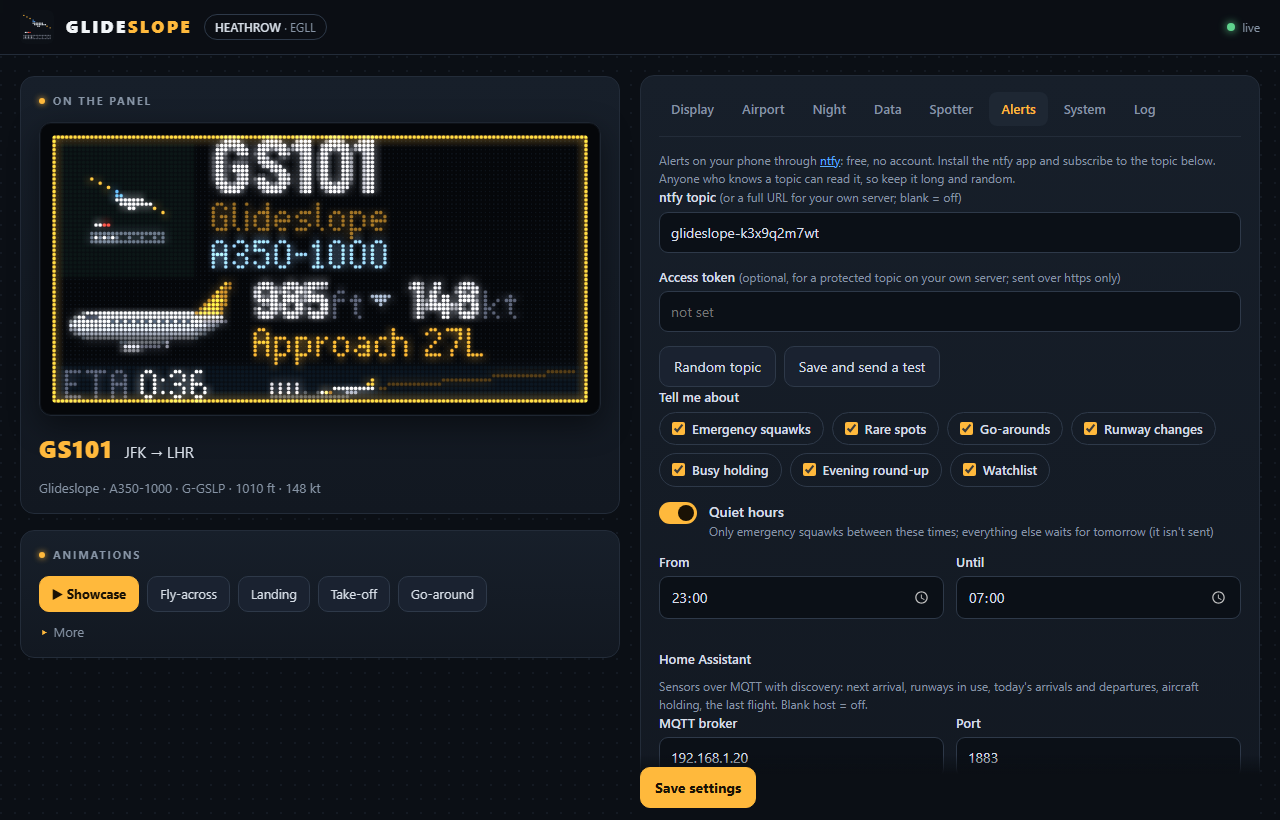
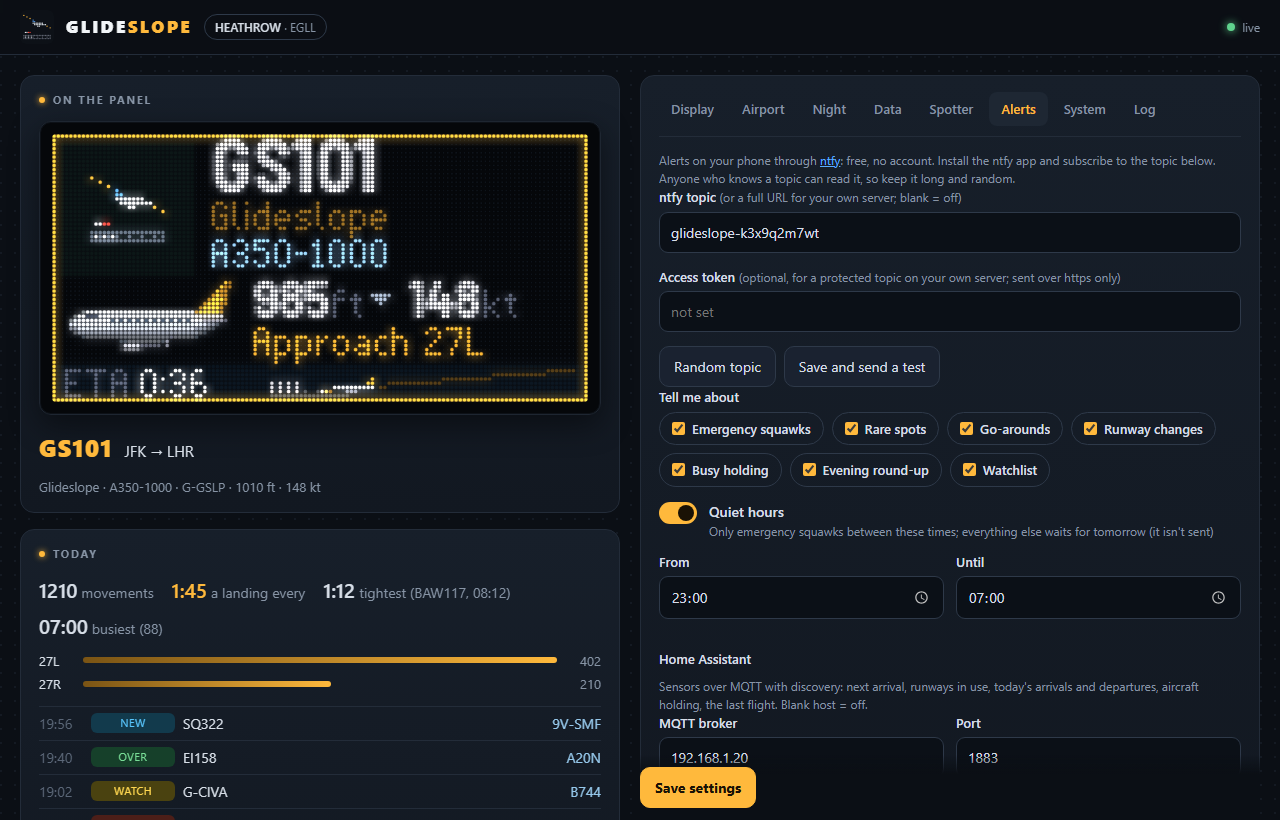
7.1.0: docs, screenshots, changelog

diff --git a/tools/webui_preview.py b/tools/webui_preview.py
@@ -204,7 +204,7 @@ def main():
     today = ROOT / 'docs' / 'webui-today.png'
     shoot(url, str(today), 1280, 1240, 1)
     from PIL import Image
-    Image.open(today).crop((0, 600, 480, 1240)).save(today)
+    Image.open(today).crop((16, 526, 624, 982)).save(today)
     phone = ROOT / 'docs' / 'webui-phone.png'
     shoot(url + 'phone', str(phone), 600, 1100, 2)
     from PIL import Image

diff --git a/README.md b/README.md
@@ -57,6 +57,14 @@ repository (see [Airline logos](#airline-logos)).
 | --- | --- |
 | ![The route globe: New York to London, the night side shaded](docs/globe.png) | ![An A380 overhead at 37,000 ft with contrails](docs/overhead.png) |
 
+| Runway rhythm | Spotted today |
+| --- | --- |
+| ![Runway rhythm: a landing every 1:45, today's average and tightest gap, each runway's share](docs/rhythm.png) | ![Today's spotter log: rare spots, first visits, overhead and watchlist passes, go-arounds](docs/spotted.png) |
+
+| Overnight: the night scene | The day in one card |
+| --- | --- |
+| ![The night scene: the skyline under the stars, the time and the next sunrise](docs/night.png) | ![The bedtime summary: movements, the busiest hour, the tightest gap and the best spot](docs/summary.png) |
+
 | Top airlines | Aircraft types |
 | --- | --- |
 | ![Today's busiest airlines in their colours](docs/stats-airlines.png) | ![Today's commonest aircraft types](docs/stats-types.png) |
@@ -77,6 +85,11 @@ spotter, phone alerts and Home Assistant, system, log), firmware updates and a l
 | Desktop | Phone |
 | --- | --- |
 | <img src="docs/webui-desktop.png" alt="The Glideslope web page on a desktop" width="560"> | <img src="docs/webui-phone.png" alt="The Glideslope web page on a phone" width="220"> |
+
+The **Today** card under the panel: the day's movements and rhythm, and
+what was spotted.
+
+<img src="docs/webui-today.png" alt="The Today card: movements, a landing every 1:45, the tightest gap, runway shares and today's spotter log" width="420">
 
 | Alerts | Spotter |
 | --- | --- |

diff --git a/CHANGELOG.md b/CHANGELOG.md
@@ -7,7 +7,7 @@ web page (`firmware.bin`) keep your settings. Release files are on the
 There is no 3.0: the features planned for it (living sky, holding stacks,
 phone alerts) were finished alongside 4.0's and shipped together as 4.0.0.
 
-## 7.1.0 (in progress)
+## 7.1.0 (20 Oct 2026)
 
 The day and the sky.
 
